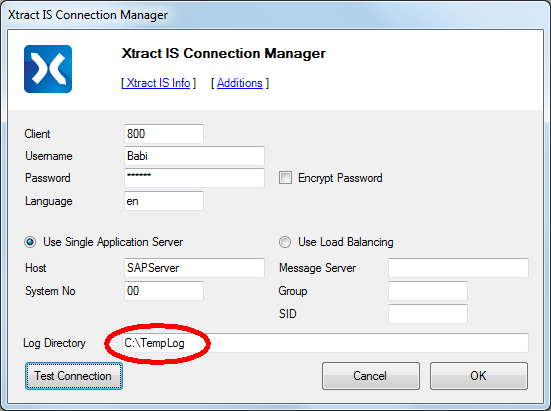
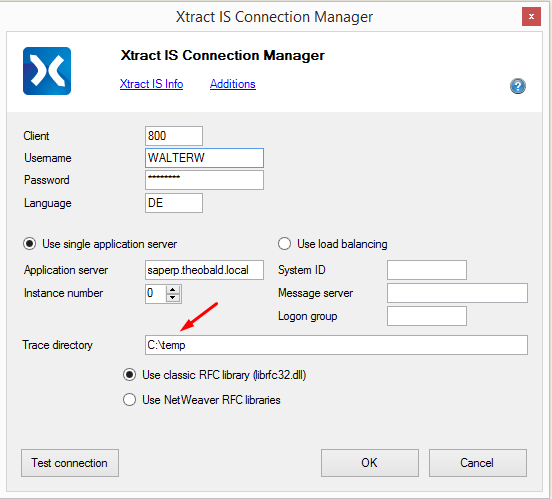
Activate Xtract tracing

Changed region(s): [[0.0, 0.0, 1.0, 1.0], [0.4936, 0.4088, 0.7096, 0.5255]]

diff --git a/content/_general/how-to-activate-tracing-for-xtract-products.md b/content/_general/how-to-activate-tracing-for-xtract-products.md
@@ -8,10 +8,12 @@ weight: 3
 
 Please also have a look in our [OnlineHelp](https://help.theobald-software.com/en/) for further information.
 
-To activate the tracing for Xtract Products it is required to fill in a path in the field Log Directory in the Xtract connection Manager as seen in the screenshot below.
+You may be requested by a Theobald Software support technician to send Xtract trace fildes. To activate the tracing for Xtract products please fill in a path in the field *Trace Directory* in the Xtract Connection Manager/SAP source as seen in the screenshot below.
 
-![XtractConnectionLog](/img/contents/XtractConnectionLog.png){:class="img-responsive"}
+![XtractConnectionLog](/img/contents/XtractConnectionLog.png){:class="img-responsive"} 
+<br>
+![XtractConnectionLog](/img/contents/XtractConnectionLog_XU.png){:class="img-responsive"}
 
-XML Files are created in the path specified with the tracing information.
+When pulling extraction meta data or when running an extraction, xml files are created in the path specified in the *Trace Directory* field. Please zip the complete trace folder and attach it to the support ticket.
 
-Please do not forget to delete the entry in the field after the tracing is not needed anymore. 
+**Attention:** Please do not forget to delete the entry in the field after the tracing is not needed anymore. 
